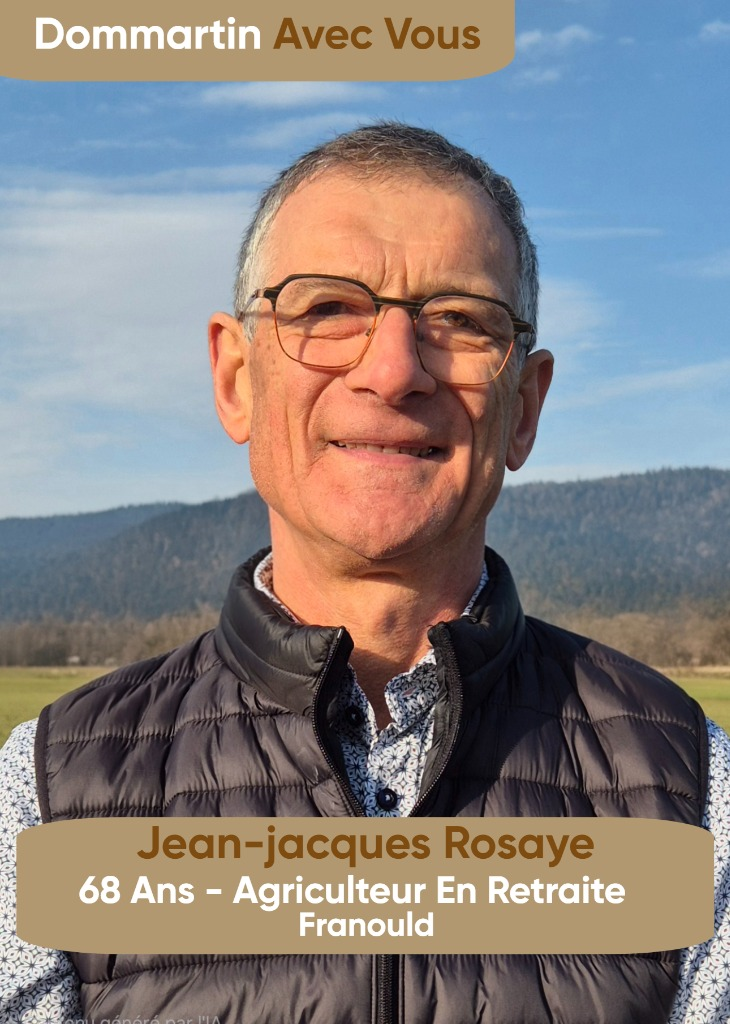
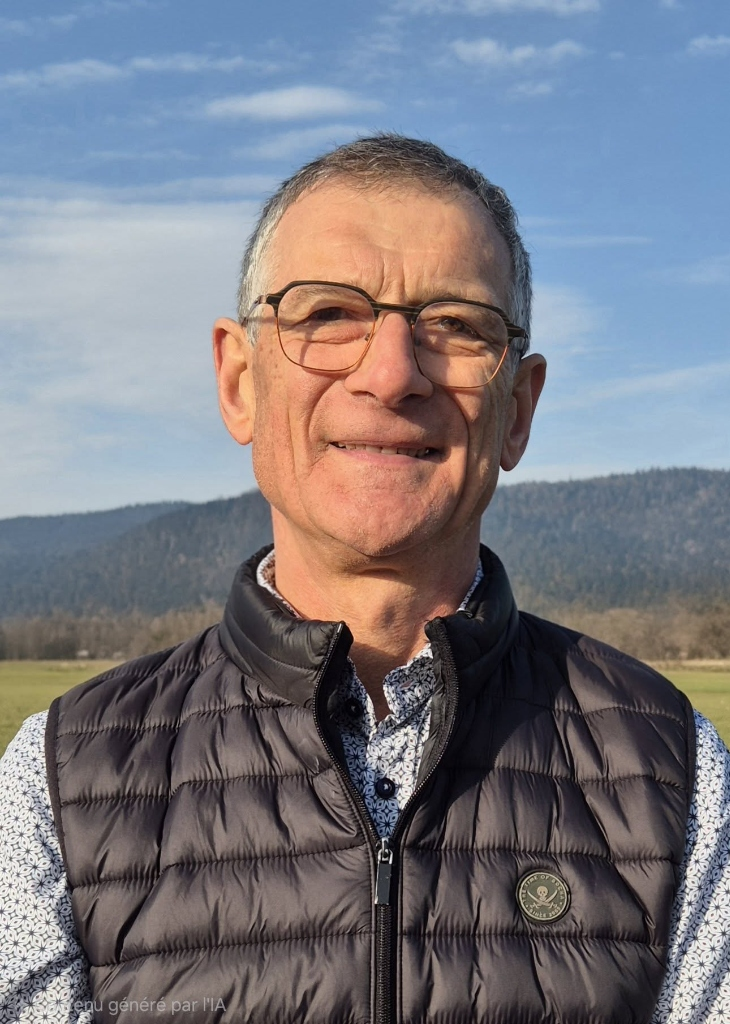
Ajout commerce proximite, photo JJ Rosaye et texte municipales

diff --git a/components/vitalite.tsx b/components/vitalite.tsx
@@ -150,6 +150,72 @@ export function Vitalite() {
                 </ul>
             </div>
 
+            {/* Commerce de proximité */}
+            <div>
+                <h3 className="text-2xl font-bold text-gray-900 mb-4 flex items-center gap-3">
+                    <span className="bg-accent text-white w-8 h-8 rounded-full flex items-center justify-center text-sm font-bold">🏪</span>
+                    Un commerce de proximité à Dommartin : un projet à construire avec sérieux
+                </h3>
+                <p className="text-gray-700 leading-relaxed mb-4">
+                    À Dommartin, la question d&apos;un commerce de proximité revient régulièrement dans nos échanges avec les habitants. Pouvoir acheter du pain, quelques produits essentiels, et disposer d&apos;un lieu convivial comme un café citoyen représente, pour beaucoup de Picosés, un véritable enjeu de qualité de vie.
+                </p>
+                <p className="text-gray-700 leading-relaxed mb-4">
+                    Nous souhaitons ouvrir la réflexion sur la création d&apos;un commerce multi-activité, associant dépôt de pain, petite épicerie et espace de rencontre intergénérationnel.
+                </p>
+                <p className="text-gray-700 leading-relaxed mb-4">
+                    Ce besoin n&apos;est pas isolé : de nombreuses communes rurales sont confrontées à la même problématique. L&apos;exemple de plusieurs communes autour de nous montre qu&apos;un projet peut aboutir lorsqu&apos;il est accompagné par la collectivité, notamment par l&apos;acquisition et la réhabilitation d&apos;un local permettant l&apos;installation d&apos;un professionnel.
+                </p>
+                <p className="text-gray-700 leading-relaxed mb-4">
+                    À Dommartin, la situation est différente. La vente d&apos;une part importante des biens communaux ces dernières années rend aujourd&apos;hui plus complexe la mise à disposition d&apos;un local. La première étape consistera donc à identifier une solution immobilière réaliste (acquisition, réhabilitation, partenariat ou autre montage adapté).
+                </p>
+                <p className="text-gray-700 leading-relaxed mb-6">
+                    Ce projet devra se construire en lien avec la Communauté de communes de la Porte des Vosges Méridionales, compétente en matière de développement économique, ainsi qu&apos;avec les dispositifs publics de soutien existants.
+                </p>
+
+                {/* Méthode */}
+                <div className="bg-gradient-to-br from-green-50 to-accent/5 p-6 rounded-2xl border border-accent/20 mb-6">
+                    <h4 className="font-bold text-gray-900 mb-4">Notre méthode est claire :</h4>
+                    <ul className="space-y-3 text-gray-700">
+                        <li className="flex items-center gap-3">
+                            <span className="text-accent font-bold">✔</span>
+                            <span>Étudier sérieusement la faisabilité</span>
+                        </li>
+                        <li className="flex items-center gap-3">
+                            <span className="text-accent font-bold">✔</span>
+                            <span>Garantir un modèle économiquement viable</span>
+                        </li>
+                        <li className="flex items-center gap-3">
+                            <span className="text-accent font-bold">✔</span>
+                            <span>Construire un projet durable pour la commune</span>
+                        </li>
+                    </ul>
+                </div>
+
+                {/* Solutions complémentaires */}
+                <div className="bg-white p-6 rounded-2xl border border-accent/20 shadow-sm">
+                    <p className="text-gray-700 leading-relaxed mb-4">
+                        En parallèle de ce projet, nous étudierons activement des solutions complémentaires afin de garantir un service de proximité adapté aux besoins des Picosés, comme :
+                    </p>
+                    <ul className="space-y-3 text-gray-700 mb-4">
+                        <li className="flex items-start gap-3">
+                            <span className="w-2 h-2 bg-accent rounded-full mt-2 shrink-0" />
+                            <span>Un service d&apos;aide à la mobilité pour faciliter l&apos;accès aux courses et aux services</span>
+                        </li>
+                        <li className="flex items-start gap-3">
+                            <span className="w-2 h-2 bg-accent rounded-full mt-2 shrink-0" />
+                            <span>L&apos;accueil régulier d&apos;un camion épicerie ambulant et/ou d&apos;un dépôt de pain</span>
+                        </li>
+                        <li className="flex items-start gap-3">
+                            <span className="w-2 h-2 bg-accent rounded-full mt-2 shrink-0" />
+                            <span>Toute autre initiative pragmatique répondant aux réalités de notre commune</span>
+                        </li>
+                    </ul>
+                    <p className="text-gray-700 font-medium italic border-l-4 border-accent pl-4">
+                        Notre objectif reste le même : apporter des réponses concrètes et adaptées au quotidien des habitants.
+                    </p>
+                </div>
+            </div>
+
             {/* Conclusion */}
             <div className="bg-gradient-to-br from-accent to-accent/80 p-6 md:p-8 rounded-2xl text-white shadow-lg">
                 <h3 className="text-xl font-bold mb-4">Une commune utile, accueillante et engagée</h3>

diff --git a/app/page.tsx b/app/page.tsx
@@ -33,6 +33,21 @@ export default function Home() {
                     />
                     {/* Darker overlay for text readability on the image */}
                     <div className="absolute inset-0 bg-black/40 backdrop-blur-[1px]" />
+                    {/* Jean-Jacques Rosaye portrait overlay */}
+                    <div className="absolute bottom-6 right-6 md:bottom-10 md:right-10 z-20 flex flex-col items-center">
+                        <div className="w-28 h-28 md:w-40 md:h-40 rounded-full overflow-hidden border-4 border-white shadow-2xl">
+                            <Image
+                                src="/jean-jacques-rosaye.jpg"
+                                alt="Jean-Jacques Rosaye"
+                                width={200}
+                                height={200}
+                                className="w-full h-full object-cover object-top"
+                            />
+                        </div>
+                        <div className="mt-3 bg-white px-5 py-2 rounded-full shadow-xl">
+                            <span className="text-sm md:text-base font-bold text-primary">avec Jean-Jacques ROSAYE</span>
+                        </div>
+                    </div>
                 </div>
 
                 <div className="container mx-auto px-4 relative z-10 text-center">
@@ -47,8 +62,7 @@ export default function Home() {
                             <div className="inline-flex flex-row items-center justify-center md:gap-3 px-6 py-3 md:px-5 md:py-2.5 rounded-xl md:rounded-full bg-white/10 backdrop-blur-md border border-white/30 text-white text-sm md:text-base font-medium tracking-wide shadow-lg hover:bg-white/20 transition-all cursor-default group max-w-full text-center">
                                 <span className="w-2 h-2 rounded-full bg-accent animate-pulse shadow-[0_0_8px_rgba(224,160,93,0.8)] shrink-0 hidden md:block" />
                                 <div className="flex flex-col md:flex-row md:items-center gap-1.5 md:gap-1.5">
-                                    <span className="opacity-90">Élections municipales</span>
-                                    <span className="font-bold text-base md:text-base md:font-medium">des 15 et 22 mars 2026</span>
+                                    <span className="font-bold text-base md:text-lg">Municipales 2026 : rendez-vous le 15 mars</span>
                                 </div>
                             </div>
                         </div>
